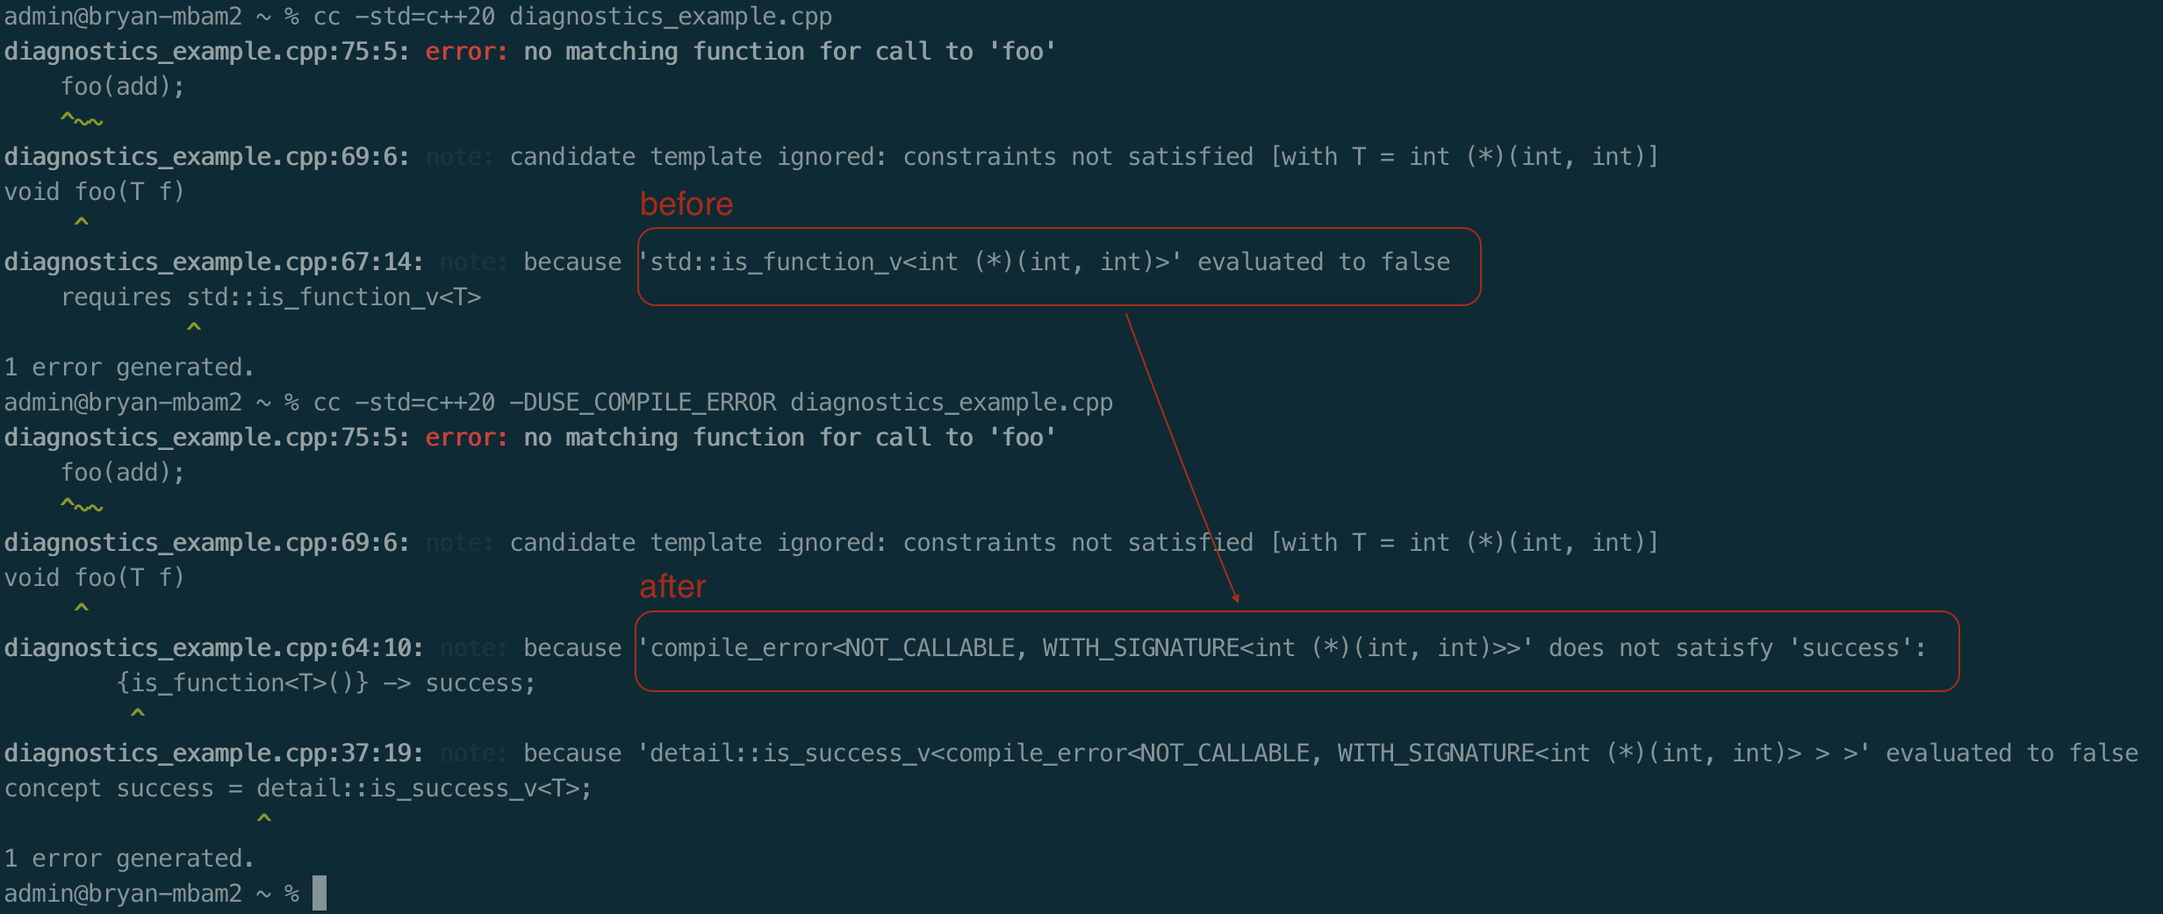
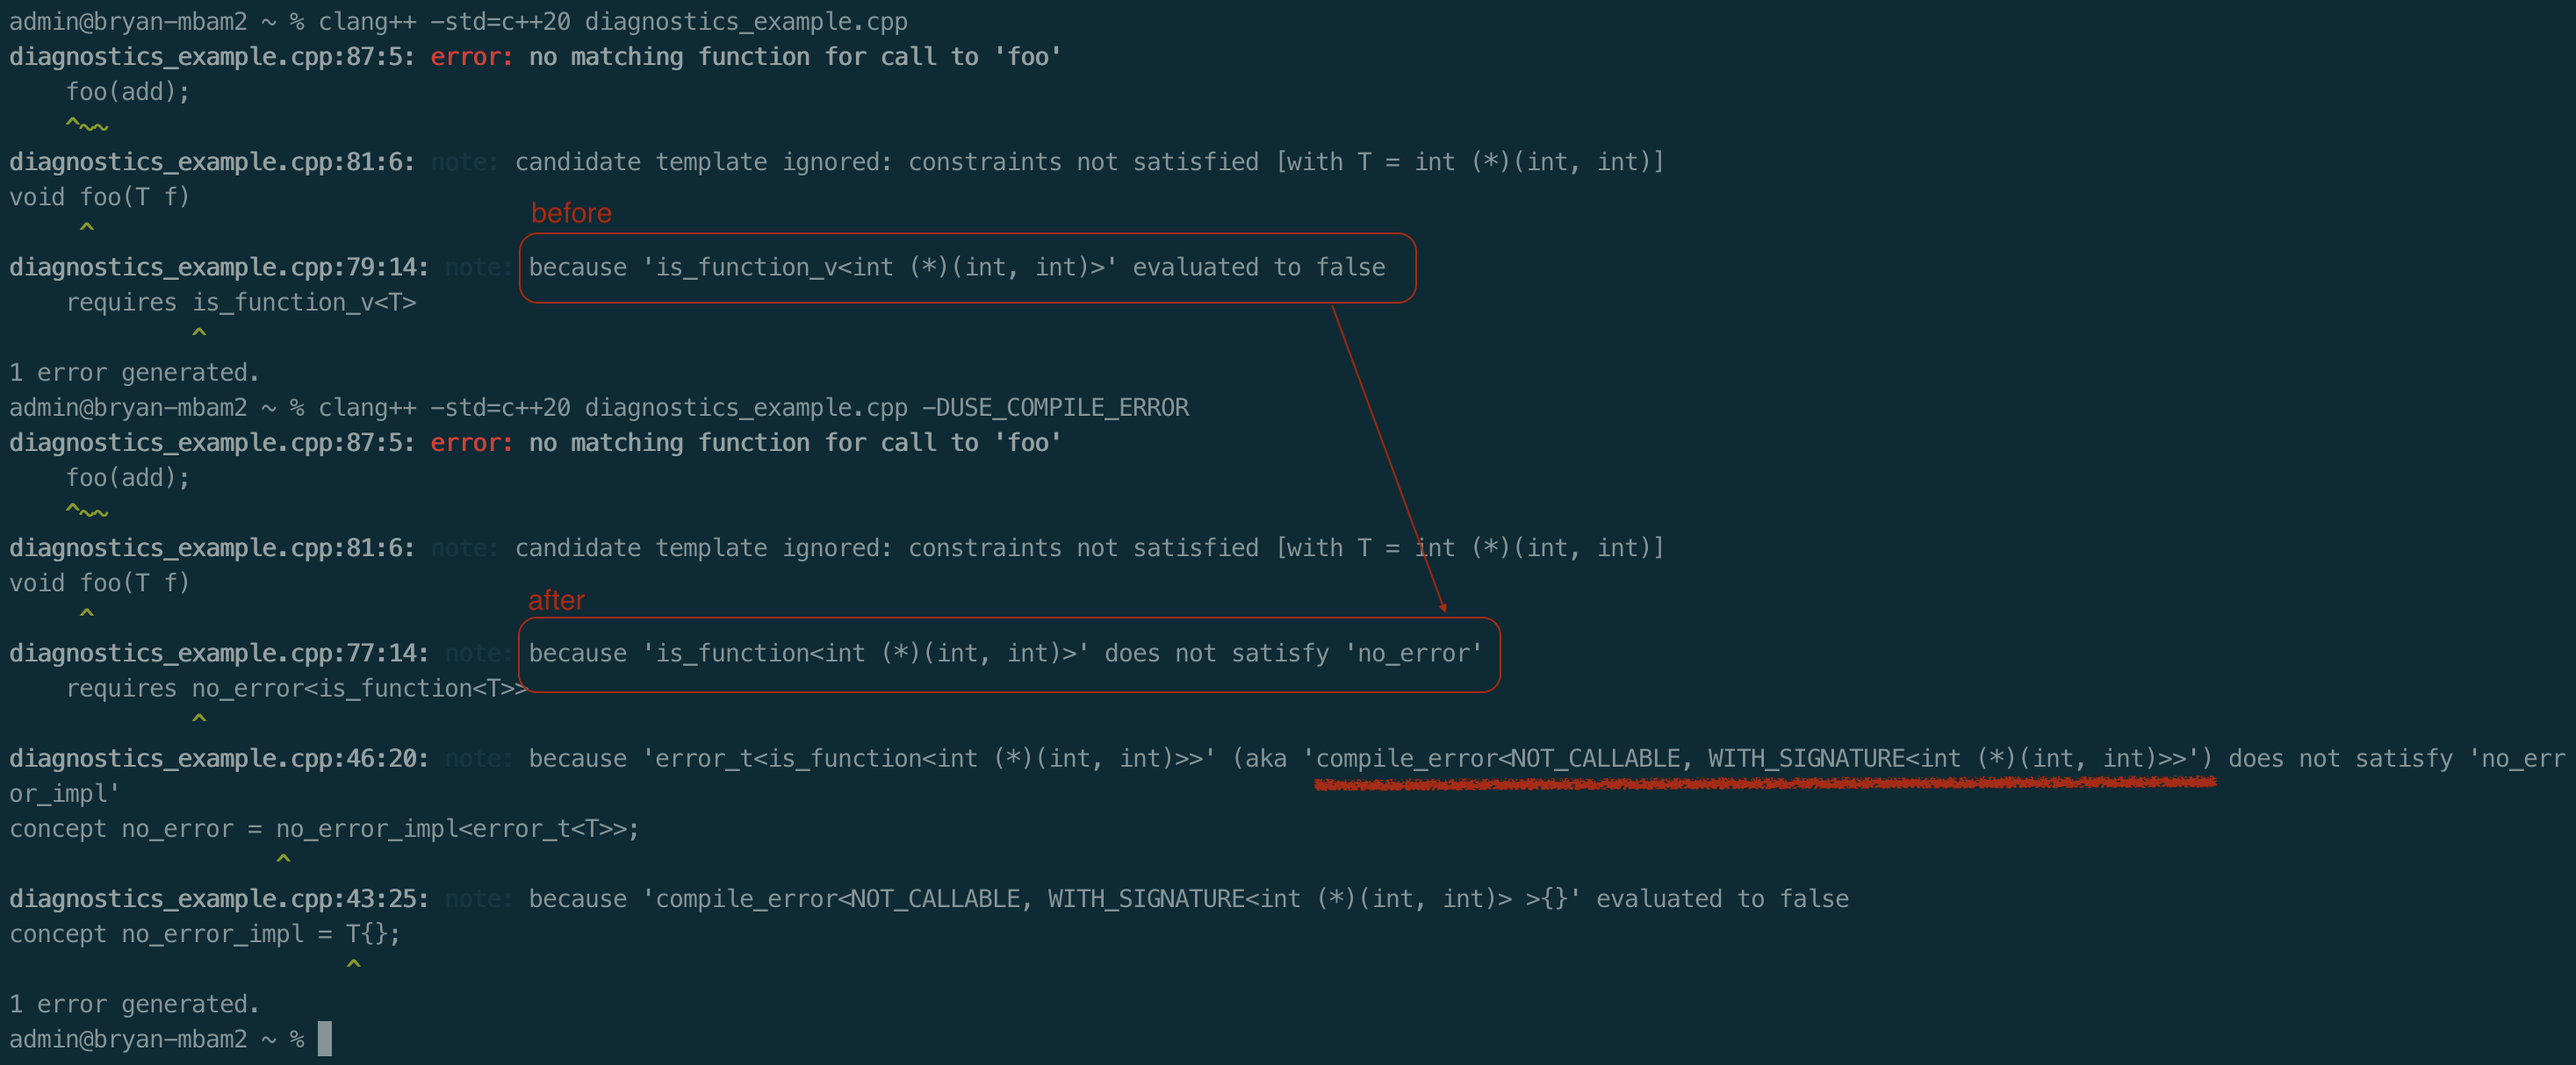
Improving compile_error

diff --git a/_posts/articles/2023-06-13-compile-error.md b/_posts/articles/2023-06-13-compile-error.md
@@ -12,6 +12,7 @@ tags: 'C++'
 前不久，Eric Niebler 提升了 `stdexec` 的编译期诊断信息。他利用了 `concept` 在评估失败时编译器会打印出模板参数类型的特征，让那些查询类型属性的 `trait` 返回一个他定制的模板类，然后诊断消息命名成类名作为模板参数打印出来，而不是仅仅返回一个布尔值。
 
 ```.cpp
+// #include <concepts>
 #include <type_traits>
 
 // struct compile_error<What, With...>
@@ -19,36 +20,49 @@ tags: 'C++'
 struct none;
 
 template <class What, class... With>
-struct compile_error
+struct compile_error : std::false_type 
 {
+    using type = compile_error;
 };
 
 template <>
-struct compile_error<none>
+struct compile_error<none> : std::true_type
 {
+    using type = compile_error;
 };
 
-// concept success<compile_error<...>>
+// concept error<T>
+// concept no_error<T>
 //=====================================
 namespace detail {
 
-template <class T>
-struct is_success : std::false_type
-{
-};
+consteval compile_error<none> get_error(...);
 
-template <>
-struct is_success<compile_error<none>> : std::true_type
-{
-};
+template <class What, class... With>
+consteval compile_error<What, With...> get_error(const compile_error<What, With...>*);
 
 template <class T>
-inline constexpr bool is_success_v = is_success<std::remove_cvref_t<T>>::value;
+extern decltype(get_error((T*)nullptr)) error_v;
+
+template <class T>
+using error_t = decltype(error_v<T>);
+
+template <class T>
+concept error_impl = (not T{});
+
+template <class T>
+concept error = error_impl<error_t<T>>;
+
+template <class T>
+concept no_error_impl = T{};
+
+template <class T>
+concept no_error = no_error_impl<error_t<T>>;
 
 } // namespace detail
 
-template <class T>
-concept success = detail::is_success_v<T>;
+using detail::error;
+using detail::no_error;
 
 // Usage
 //=======
@@ -59,14 +73,14 @@ template <class T>
 struct WITH_SIGNATURE;
 
 template <class T>
-constexpr auto is_function()
+struct is_function : std::conditional_t<std::is_function_v<T>, 
+                                        std::true_type, 
+                                        compile_error<NOT_CALLABLE, WITH_SIGNATURE<T>>>
 {
-    if constexpr(std::is_function_v<T>) {
-        return compile_error<none>{};
-    } else {
-        return compile_error<NOT_CALLABLE, WITH_SIGNATURE<T>>{};
-    }
-}
+};
+
+template <class T>
+inline constexpr bool is_function_v = is_function<T>::value;
 
 int add(int a, int b) {
     return a + b;
@@ -74,13 +88,11 @@ int add(int a, int b) {
 
 template <class T>
 #if defined(USE_COMPILE_ERROR)
-    requires requires(T) {
-        {is_function<T>()} -> success;
-    }
+    requires no_error<is_function<T>>
 #else
-    requires std::is_function_v<T>
+    requires is_function_v<T>
 #endif
-void foo(T f)
+void foo(T f) 
 {
 }
 
@@ -99,20 +111,20 @@ int main() {
 
 ```.cpp
 template <class T>
-requires detail::is_success_v<decltype(is_function<T>())>
+requires std::is_same_v<decltype(detail::error_v<is_function<T>>), compile_error<none>>
 void foo(T f) 
 {
 }
 ```
 
-    % cc -std=c++20 diagnostics_example.cpp
-    diagnostics_example.cpp:75:5: error: no matching function for call to 'foo'
+    % clang++ -std=c++20 diagnostics_example.cpp
+    diagnostics_example.cpp:83:5: error: no matching function for call to 'foo'
         foo(add);
         ^~~
-    diagnostics_example.cpp:69:6: note: candidate template ignored: constraints not satisfied [with T = int (*)(int, int)]
+    diagnostics_example.cpp:77:6: note: candidate template ignored: constraints not satisfied [with T = int (*)(int, int)]
     void foo(T f)
         ^
-    diagnostics_example.cpp:67:14: note: because 'detail::is_success_v<decltype(is_function<int (*)(int, int)>())>' evaluated to false
-        requires detail::is_success_v<decltype(is_function<T>())>
-                ^
+    diagnostics_example.cpp:76:10: note: because 'std::is_same_v<decltype(detail::error_v<is_function<int (*)(int, int)> >), compile_error<none> >' evaluated to false
+    requires std::is_same_v<decltype(detail::error_v<is_function<T>>), compile_error<none>>
+            ^
     1 error generated.
